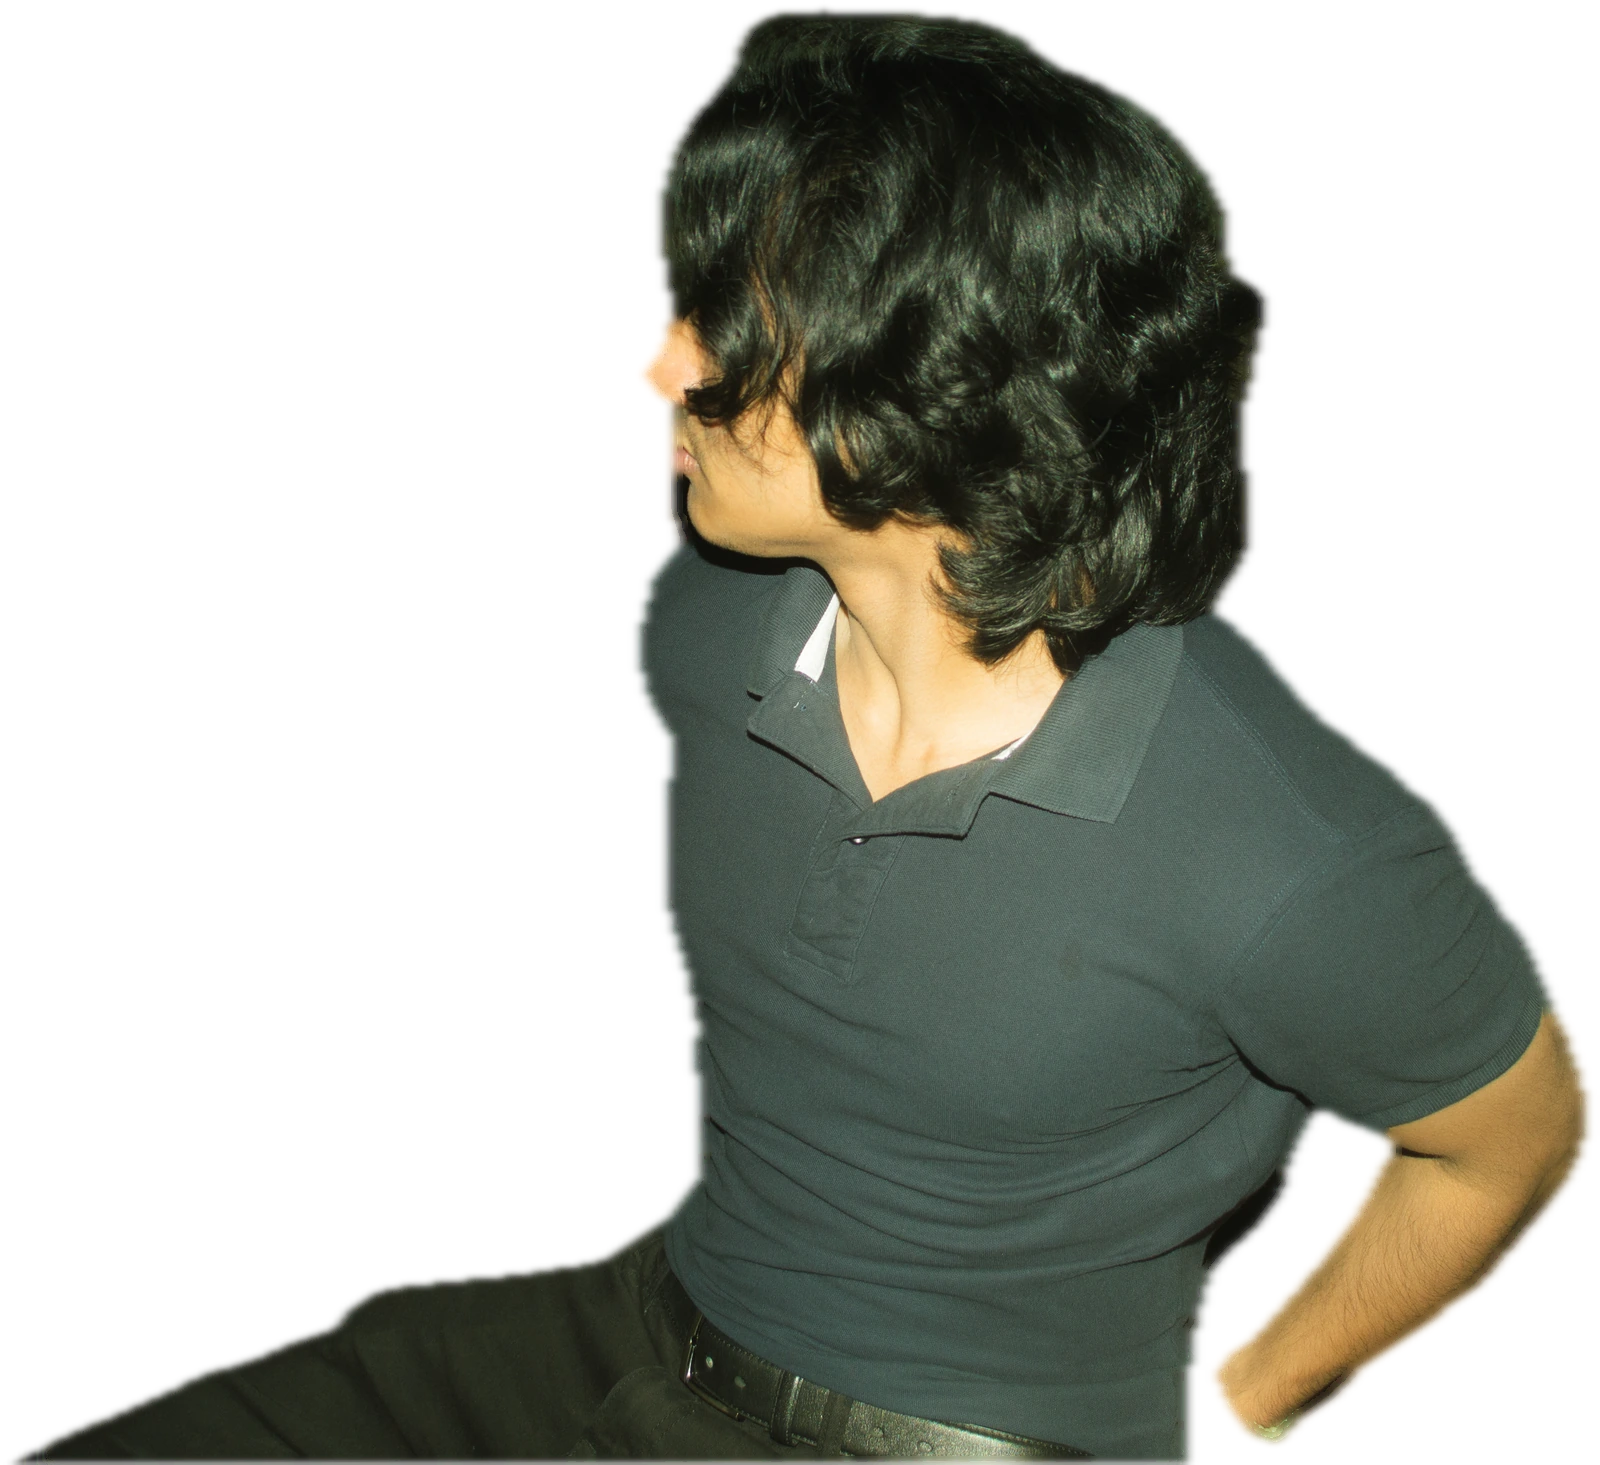
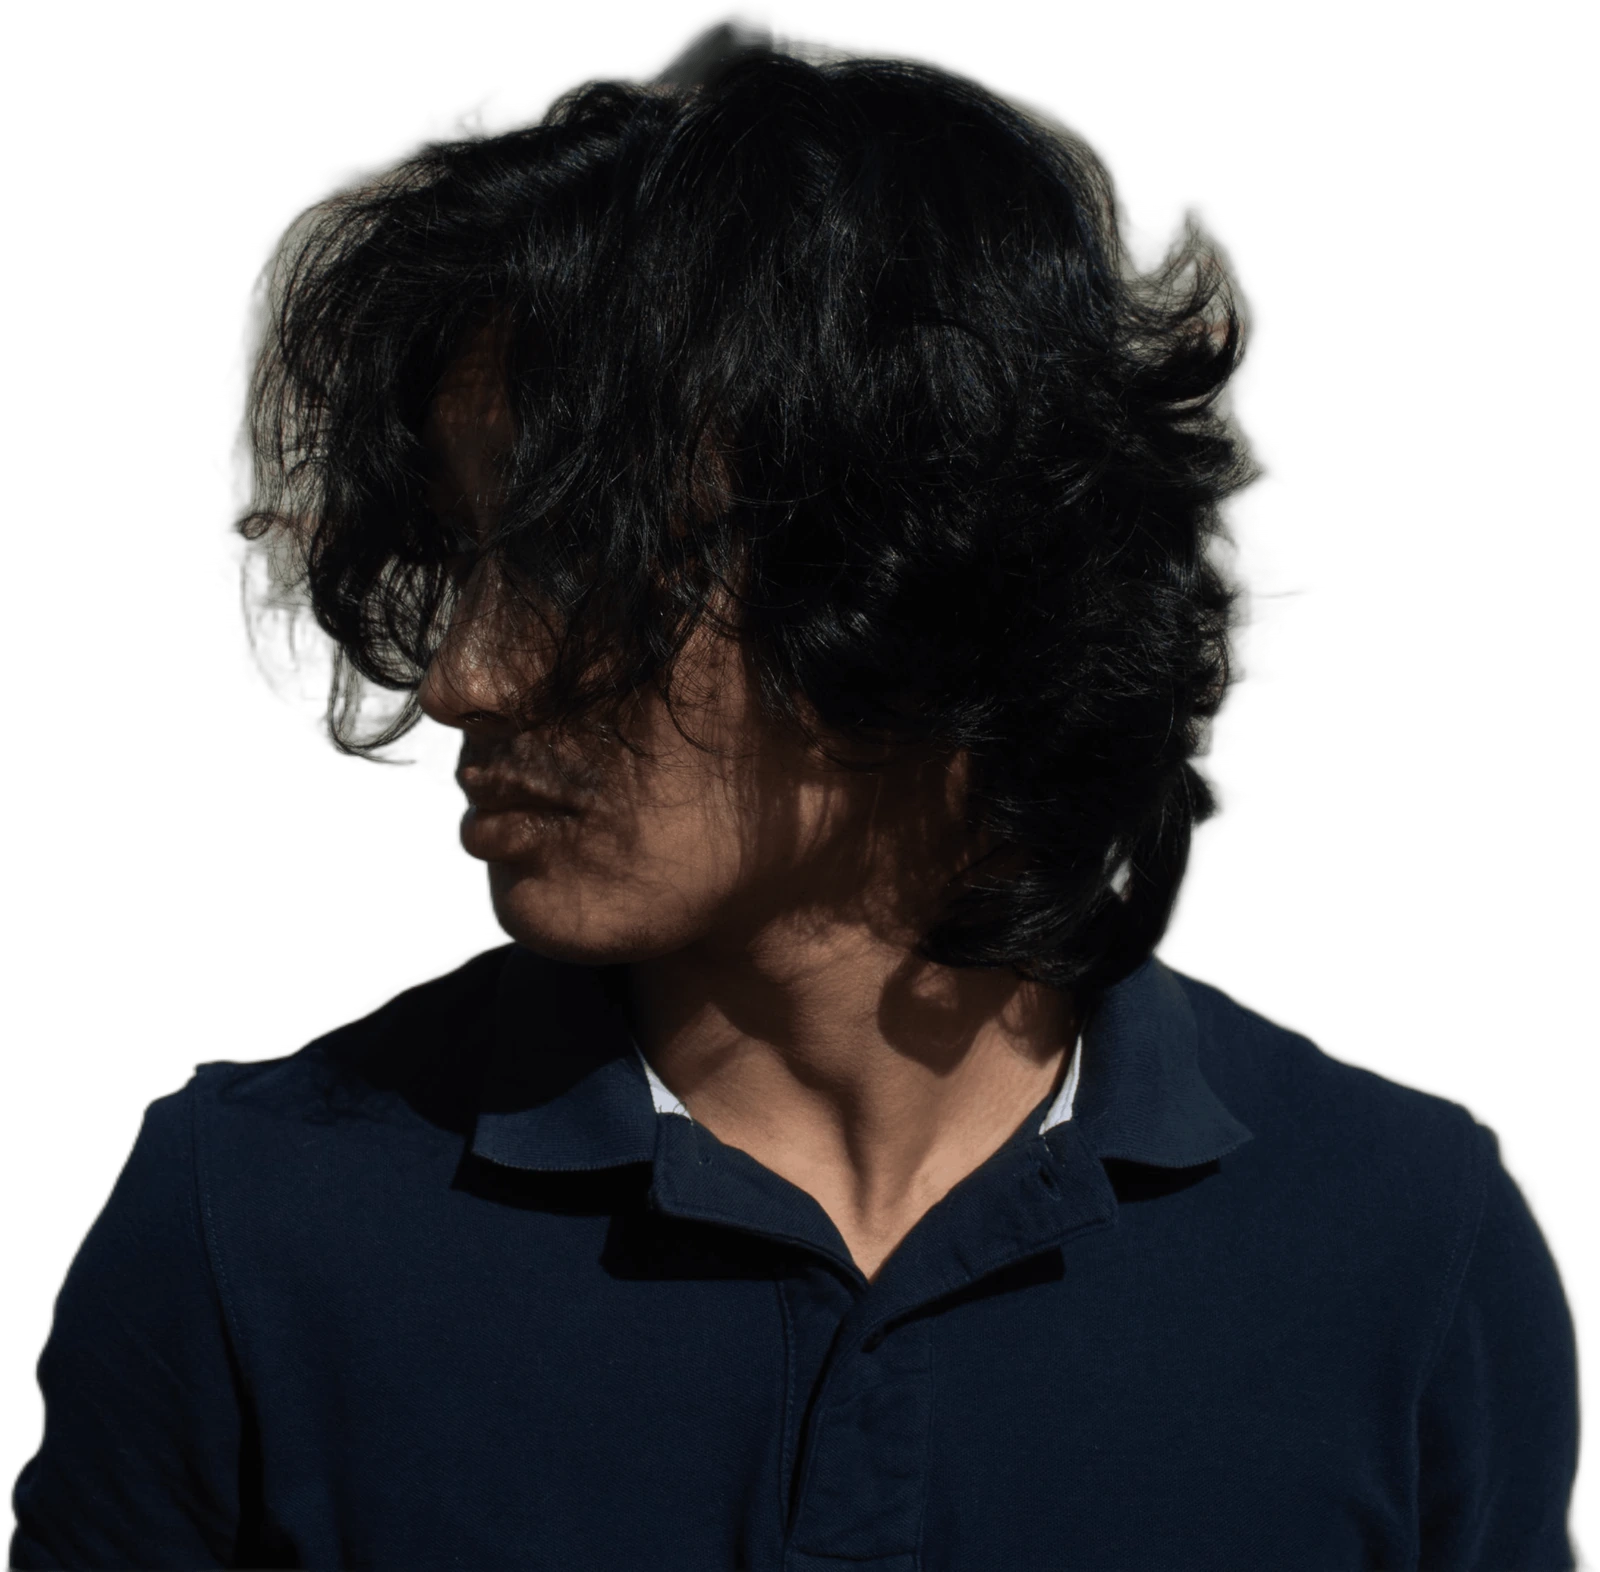
Changed picture on home screen

diff --git a/src/components/Scene3D.tsx b/src/components/Scene3D.tsx
@@ -41,7 +41,7 @@ interface Placement {
 }
 
 const PLACEMENTS: Placement[] = [
-  { asset: 'me', kind: 'photo', section: 'home', color: WHITE, x: 0.52, y: 0.04, size: 0.62, opacity: 1, motion: 'portrait' },
+  { asset: 'me', kind: 'photo', section: 'home', color: WHITE, x: 0.46, y: 0.06, size: 0.6, opacity: 1, motion: 'portrait' },
   { asset: 'sword', section: 'about', color: WHITE, x: 0.64, y: 0, size: 0.7, opacity: 0.85, motion: 'blade', rotation: [0, 0, -0.18] },
   { asset: 'ball', section: 'about', color: WHITE, x: -0.78, y: 0.3, z: -1, size: 0.22, opacity: 0.8, motion: 'spin' },
   { asset: 'cat', section: 'projects', color: WHITE, x: 0.83, y: 0.1, z: -1, size: 0.28, opacity: 0.85, motion: 'sway', rotation: [0.15, 2.6, 0], textDim: 0.06 },

diff --git a/tools/prepare_home_photo.py b/tools/prepare_home_photo.py
@@ -1,66 +1,42 @@
 """
 Makes the web copy of the home-screen photo.
 
-  python3 tools/prepare_home_photo.py        (needs Pillow and numpy)
+  python3 tools/prepare_home_photo.py        (needs Pillow)
 
 Reads public/images/home_me.png (a transparent-background PNG) and writes
 public/images/home_me_web.webp:
 
 1. Crops to the person and scales the longest side to MAX_SIDE.
-2. Cleans the cut-out edge. The source's soft edge still carries colour from the
-   original background (a yellow-green rim that reads as a ghost outline on a dark
-   page). The semi-transparent rim, plus EDGE_BAND px inside it, gets its colour
-   re-sampled from just inside the person, and the edge is pulled in by SHRINK px with
-   a FEATHER px blur. Interior detail is untouched.
+2. Tones down the cut-out fringe. Semi-transparent pixels still carry colour from
+   the original background (a bright halo around hair and shoulders on a dark page),
+   so they are darkened in proportion to how transparent they are. Hair detail is
+   left alone: nothing is blurred, smeared or re-coloured.
 
 The original file is never modified.
 """
-import numpy as np
-from PIL import Image, ImageFilter
+from PIL import Image
 
 SRC = "public/images/home_me.png"
 DST = "public/images/home_me_web.webp"
 MAX_SIDE = 1600
-EDGE_BAND = 3   # px inside the soft edge whose colour is also replaced
-SHRINK = 2      # px the edge is pulled inward
-FEATHER = 1.2   # px blur on the final edge
-
-
-def erode(mask: Image.Image, px: int) -> Image.Image:
-    # Repeated 3×3 min filters approximate a round erosion without huge kernels.
-    for _ in range(px):
-        mask = mask.filter(ImageFilter.MinFilter(3))
-    return mask
-
+FRINGE = 0.3  # brightness kept by a fully transparent fringe pixel
 
 im = Image.open(SRC).convert("RGBA")
 im = im.crop(im.getchannel("A").point(lambda a: 255 if a > 0 else 0).getbbox())
 im.thumbnail((MAX_SIDE, MAX_SIDE), Image.LANCZOS)
 
-rgb = np.asarray(im, dtype=np.float32)[..., :3]
-alpha = im.getchannel("A")
+r, g, b, a = im.split()
+# Fully opaque pixels keep their colour; the more transparent a pixel is, the more its
+# leftover background colour is darkened away.
+px = im.load()
+w, h = im.size
+for y in range(h):
+    for x in range(w):
+        cr, cg, cb, ca = px[x, y]
+        if ca == 255 or ca == 0:
+            continue
+        k = FRINGE + (1 - FRINGE) * (ca / 255)
+        px[x, y] = (int(cr * k), int(cg * k), int(cb * k), ca)
 
-# Colour from the clean interior, spread outward into the edge band.
-core = erode(alpha.point(lambda a: 255 if a > 250 else 0), EDGE_BAND)
-core_f = np.asarray(core, dtype=np.float32) / 255
-spread_rgb = np.zeros_like(rgb)
-spread_w = np.zeros(core_f.shape, dtype=np.float32)
-for radius in (3, 6, 12, 24):
-    w = np.asarray(Image.fromarray((core_f * 255).astype(np.uint8)).filter(ImageFilter.GaussianBlur(radius)), dtype=np.float32) / 255
-    c = np.stack([
-        np.asarray(Image.fromarray((rgb[..., i] * core_f).clip(0, 255).astype(np.uint8)).filter(ImageFilter.GaussianBlur(radius)), dtype=np.float32)
-        for i in range(3)
-    ], -1)
-    # Take the tightest blur that reaches each pixel, so colour stays local.
-    take = (spread_w < 0.02) & (w > 0.02)
-    spread_rgb[take] = c[take] / w[take, None]
-    spread_w[take] = w[take]
-
-band = (core_f < 0.5) & (spread_w > 0.02)
-out_rgb = rgb.copy()
-out_rgb[band] = spread_rgb[band]
-
-new_alpha = erode(alpha, SHRINK).filter(ImageFilter.GaussianBlur(FEATHER))
-out = Image.fromarray(np.dstack([out_rgb.clip(0, 255), np.asarray(new_alpha, dtype=np.float32)]).astype(np.uint8))
-out.save(DST, "WEBP", quality=92, method=6, exact=True)
-print(DST, out.size, "edge pixels recoloured:", int(band.sum()))
+im.save(DST, "WEBP", quality=92, method=6, exact=True)
+print(DST, im.size)
